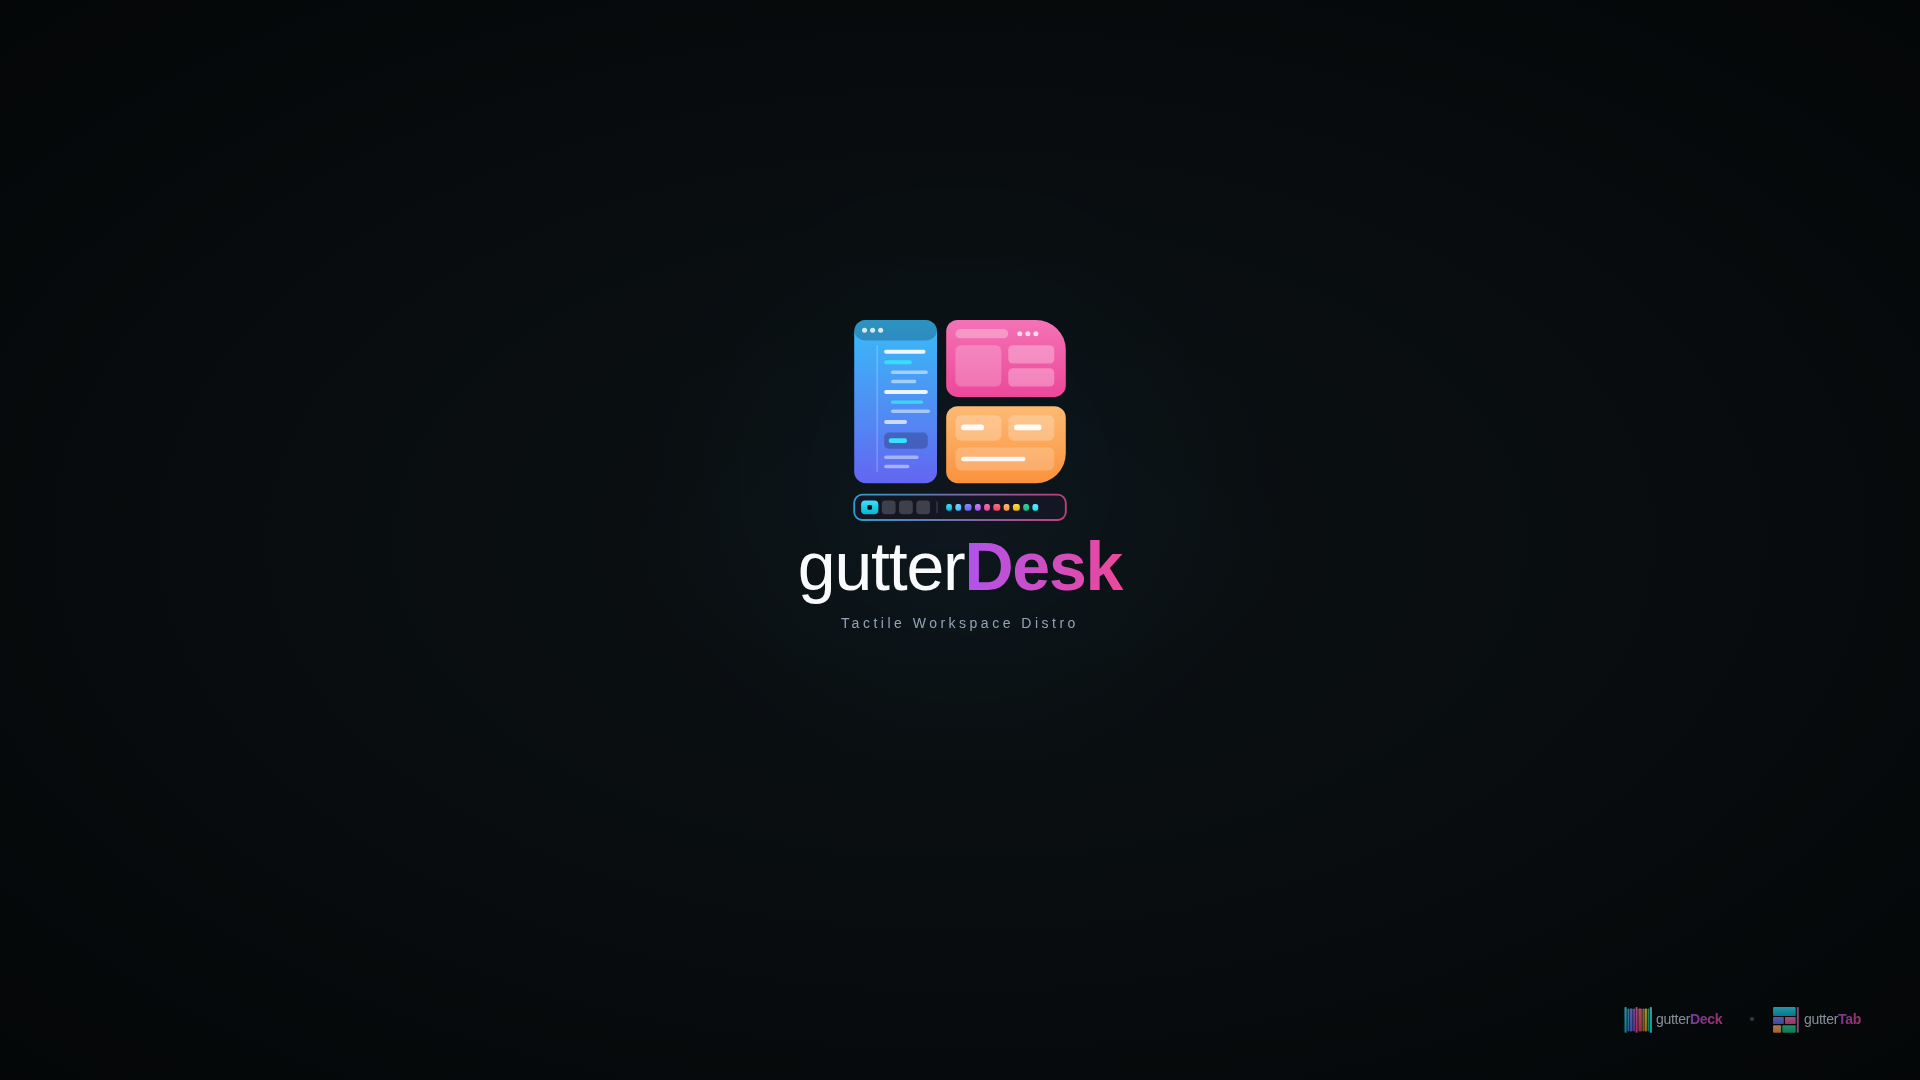
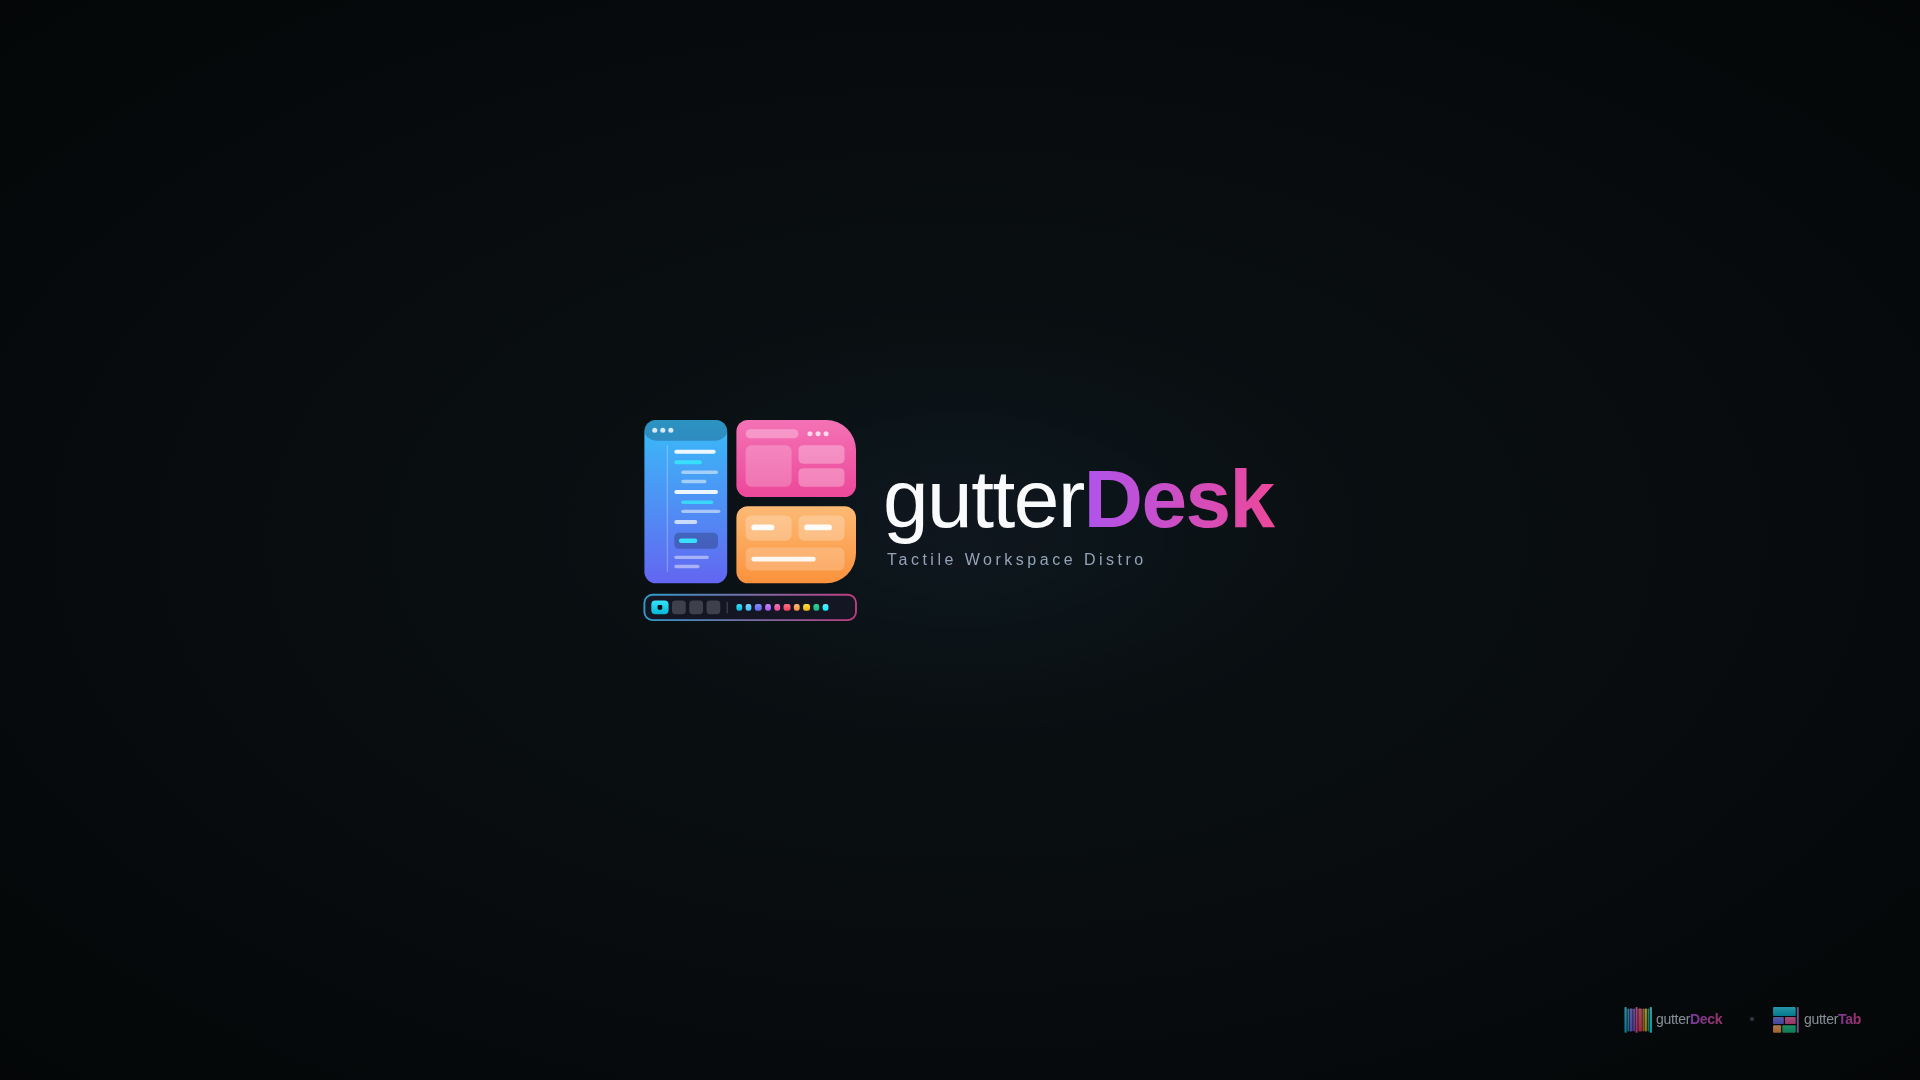
style(wallpapers): update landscape hero to horizontal lockup and regenerate assets

Changed region(s): [[0.3125, 0.275, 0.6875, 0.5806]]

diff --git a/scripts/generate_wallpapers.py b/scripts/generate_wallpapers.py
@@ -158,7 +158,7 @@ COMMON_DEFS = """  <defs>
 # =========================================================================
 # 1. Landscape Wallpaper (1920x1080)
 # =========================================================================
-# Center Hero: gutterDesk (scale 1.15, centered horizontally and vertically)
+# Center Hero: gutterDesk Horizontal Lockup (Emblem + Wordmark side by side)
 # Bottom Right: Sister apps (gutterDeck & gutterTab) subtle, compact above tray
 svg_landscape = f"""<svg xmlns="http://www.w3.org/2000/svg" viewBox="0 0 1920 1080" width="1920" height="1080">
 {COMMON_DEFS}
@@ -167,25 +167,29 @@ svg_landscape = f"""<svg xmlns="http://www.w3.org/2000/svg" viewBox="0 0 1920 10
   <rect width="1920" height="1080" fill="url(#bgVignette)"/>
 
   <!-- Subtle Ambient Glow behind Hero -->
-  <circle cx="960" cy="480" r="320" fill="url(#faintGlow)" filter="url(#faintBlur)"/>
+  <ellipse cx="960" cy="520" rx="440" ry="220" fill="url(#faintGlow)" filter="url(#faintBlur)"/>
 
-  <!-- ================= CENTER HERO: gutterDesk (Refined scale 1.15) ================= -->
-  <g transform="translate(812.8, 278.5) scale(1.15)">
-    <use href="#deskMatrix"/>
+  <!-- ================= CENTER HERO: gutterDesk Horizontal Lockup (Emblem + Wordmark) ================= -->
+  <g transform="translate(543, 370)">
+    <!-- Emblem (Centered on Y=150) -->
+    <g transform="translate(60, 8.55) scale(1.15)">
+      <use href="#deskMatrix"/>
+    </g>
+
+    <!-- Typography (Centered on Y=150) -->
+    <g transform="translate(340, 0)">
+      <text x="0" y="157"
+            font-family="'Inter', 'Liberation Sans', 'DejaVu Sans', -apple-system, sans-serif"
+            font-size="82" font-weight="400" letter-spacing="-1.5px">
+        <tspan fill="#F8FAFC" font-weight="400">gutter</tspan><tspan fill="url(#deskGrad)" font-weight="800">Desk</tspan>
+      </text>
+      <text x="4" y="195"
+            font-family="'Inter', 'Liberation Sans', 'DejaVu Sans', sans-serif"
+            font-size="16" font-weight="500" letter-spacing="3.5px" fill="#94A3B8">
+        Tactile Workspace Distro
+      </text>
+    </g>
   </g>
-
-  <!-- Typography -->
-  <text x="960" y="590" text-anchor="middle"
-        font-family="'Inter', 'Liberation Sans', 'DejaVu Sans', -apple-system, sans-serif"
-        font-size="68" font-weight="400" letter-spacing="-1.2px">
-    <tspan fill="#F8FAFC" font-weight="400">gutter</tspan><tspan fill="url(#deskGrad)" font-weight="800">Desk</tspan>
-  </text>
-
-  <text x="960" y="628" text-anchor="middle"
-        font-family="'Inter', 'Liberation Sans', 'DejaVu Sans', sans-serif"
-        font-size="14" font-weight="500" letter-spacing="3.5px" fill="#94A3B8">
-    Tactile Workspace Distro
-  </text>
 
 
   <!-- ================= BOTTOM RIGHT: SISTER APPS (Subtle, Compact above Tray) ================= -->
